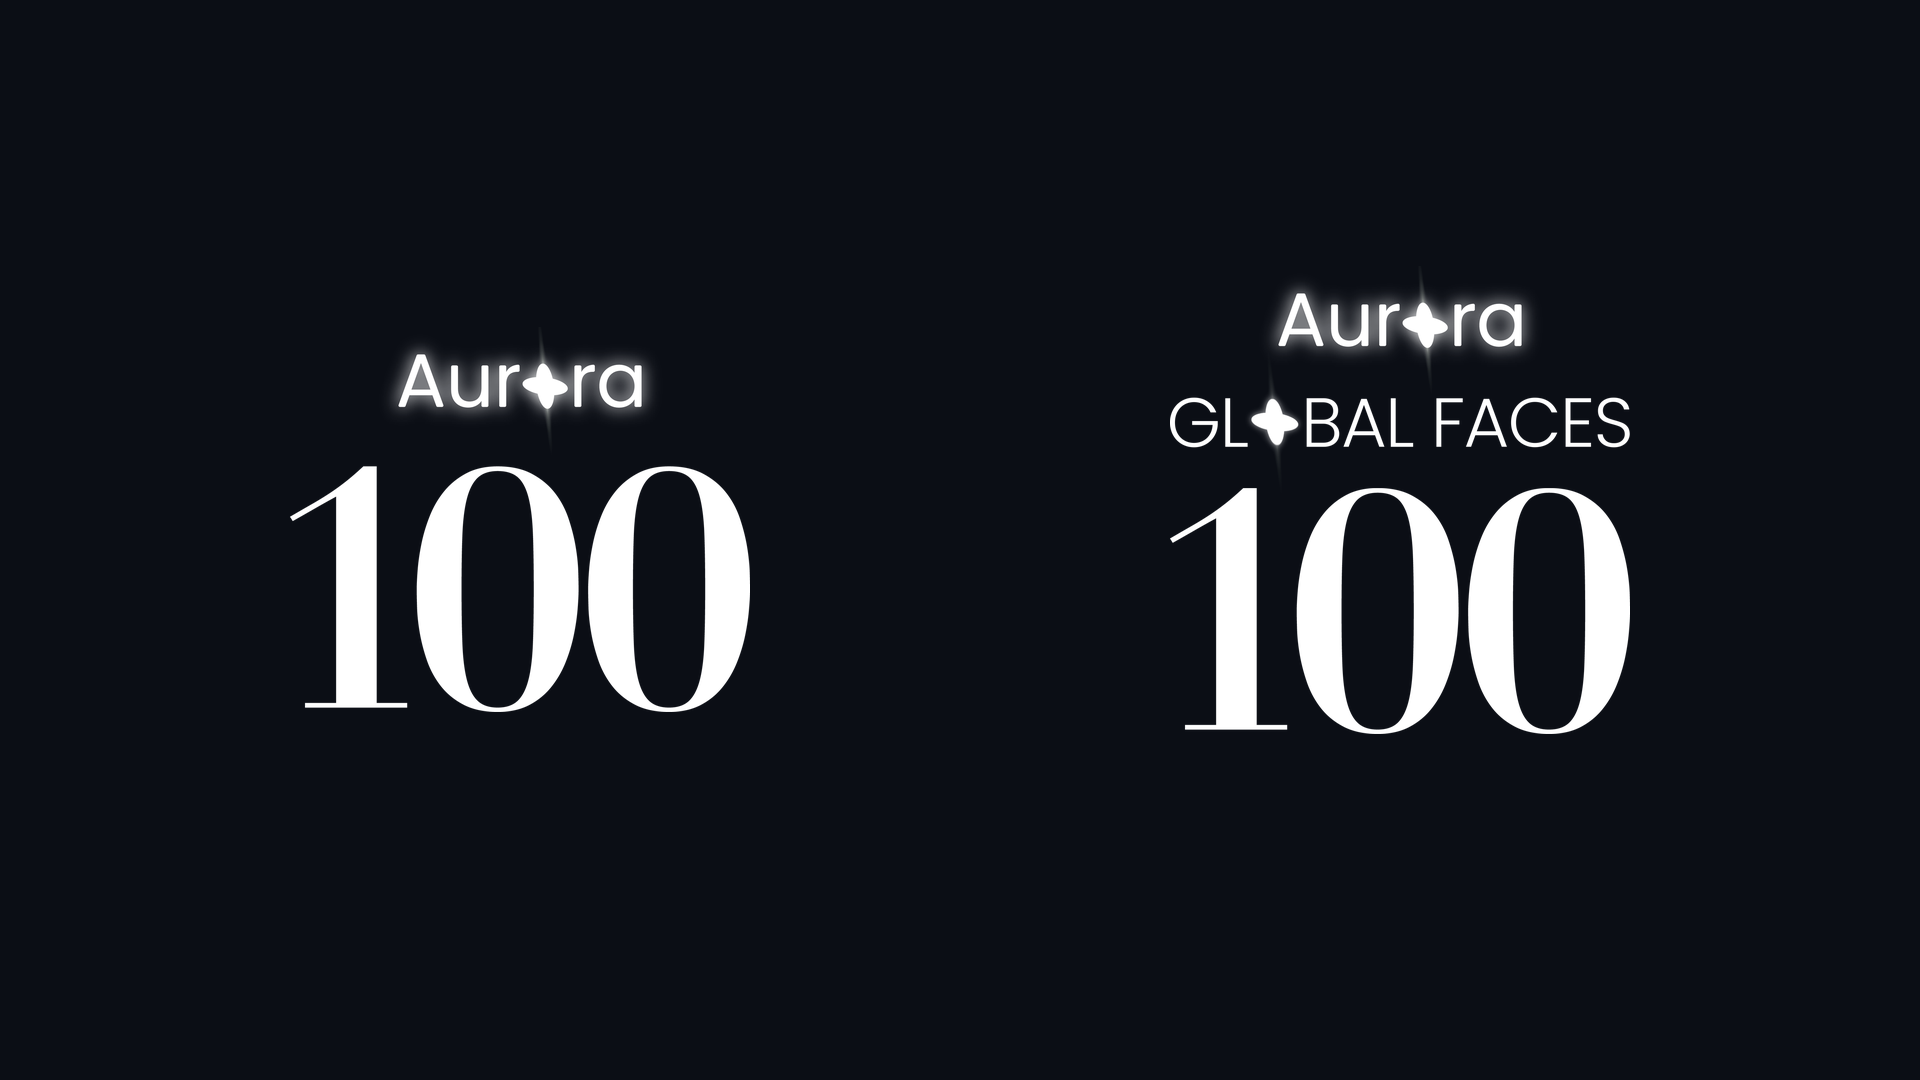
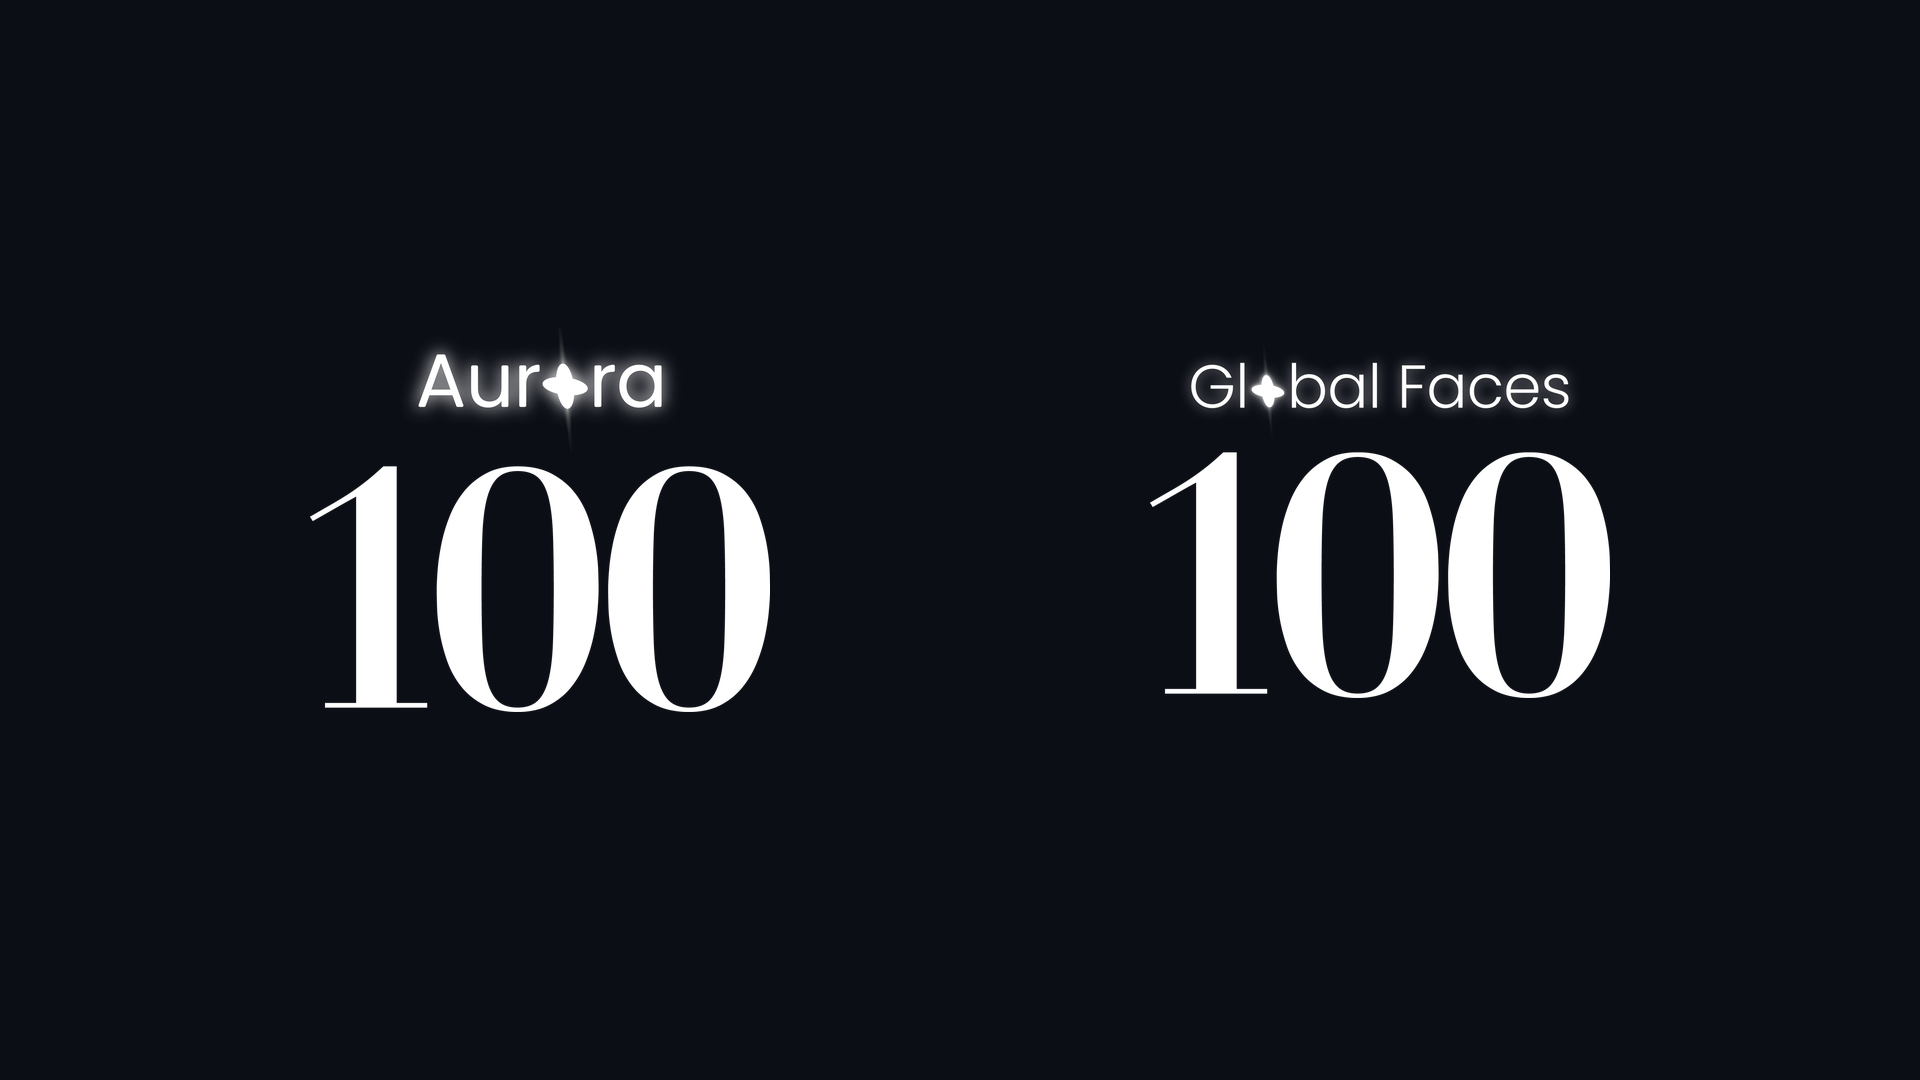
Aurora: Global Faces 100 as a standalone mark
- Aurora wordmark removed from the mark; "Gl✦bal Faces" in Poppins Light
  with capitals only on G and F, the Aurora star in place of the lowercase o
  (star height = x-height), centred over the 100 from the Aurora 100 master
- Soft glow on Stage, plain black on Read; boards and build script updated
- Guide rules and image sizes updated

Claude-Session: https://claude.ai/code/session_01VLMDQvyzXwonaRACCHVmjk

Changed region(s): [[0.5938, 0.2444, 0.875, 0.7028], [0.1562, 0.4278, 0.4062, 0.6722], [0.1875, 0.3056, 0.375, 0.3972]]

diff --git a/auracurate/guide.html b/auracurate/guide.html
@@ -70,14 +70,14 @@
         <p class="eyebrow">Official IP marks · Aurora 100 · Global Faces 100</p>
         <div class="ipm">
           <div class="ipm__tile"><img src="assets/brand/aurora100_white.png" alt="Aurora 100 — white" width="1200" height="1005"><small>Aurora 100 · Stage</small></div>
-          <div class="ipm__tile"><img src="assets/brand/global-faces-100_white.png" alt="Aurora Global Faces 100 — white" width="1200" height="1220"><small>Global Faces 100 · Stage</small></div>
+          <div class="ipm__tile"><img src="assets/brand/global-faces-100_white.png" alt="Global Faces 100 — white" width="1200" height="929"><small>Global Faces 100 · Stage</small></div>
           <div class="ipm__tile ipm__tile--light"><img src="assets/brand/aurora100_black.png" alt="Aurora 100 — black" width="878" height="683"><small>Aurora 100 · Read</small></div>
-          <div class="ipm__tile ipm__tile--light"><img src="assets/brand/global-faces-100_black.png" alt="Aurora Global Faces 100 — black" width="1200" height="1148"><small>Global Faces 100 · Read</small></div>
+          <div class="ipm__tile ipm__tile--light"><img src="assets/brand/global-faces-100_black.png" alt="Global Faces 100 — black" width="1200" height="877"><small>Global Faces 100 · Read</small></div>
         </div>
         <div class="paper"><div class="rules" style="margin-top:0">
-          <div><b>One family</b><span>Aurora wordmark on top, the project name, then the “100” from the Aurora 100 master. Same wordmark, same 100, same proportions.</span></div>
-          <div><b>The star is the O</b><span>In GL✦BAL the Aurora star replaces the O, exactly as it replaces the o in Aurora. Star height ≈ cap height; never an ordinary O.</span></div>
-          <div><b>Type</b><span>GL✦BAL FACES in Poppins Light, tracking −2%, set to the exact width of the 100. The same voice as the Global Summit mark.</span></div>
+          <div><b>Two standalone marks</b><span>Each IP is its own brand: the name above the “100”. Aurora 100 uses the Aurora wordmark as its name; Global Faces 100 has no Aurora wordmark on top. Both share the same 100 from the Aurora 100 master.</span></div>
+          <div><b>The star is the o</b><span>In Gl✦bal the Aurora star replaces the lowercase o, exactly as it does in Aurora. Star height = x-height; never an ordinary o.</span></div>
+          <div><b>Type</b><span>“Gl✦bal Faces” in Poppins Light, capitals only on G and F, tracking −1%, centred over the 100 at about four-fifths of its width. Soft glow on Stage, plain black on Read.</span></div>
           <div><b>Meaning stays separate</b><span>Aurora 100 = established influence (authority). Global Faces 100 = discovery and possibility. Neither mark implies a rank, vote or paid place.</span></div>
         </div>
         <p class="note" style="margin-top:16px">Use the master files only: <code>assets/brand/aurora100_*.png</code> and <code>global-faces-100_*.png</code>. White with glow on Stage, black on Read. Don’t redraw, recolour, stretch or add effects. Minimum width 120px on screen.</p></div>

diff --git a/auracurate/studio.html b/auracurate/studio.html
@@ -253,7 +253,7 @@
     <div class="container split">
       <div class="split__media reveal"><img src="assets/img/studio/harshaali.jpg" alt="Harshaali Malhotra — Global Faces 100" loading="lazy" style="aspect-ratio:4/5;object-fit:cover;object-position:50% 18%"></div>
       <div>
-        <img class="ip-mark" src="assets/brand/global-faces-100_white.png" alt="Aurora Global Faces 100" width="1200" height="1220" loading="lazy">
+        <img class="ip-mark" src="assets/brand/global-faces-100_white.png" alt="Global Faces 100" width="1200" height="929" loading="lazy">
         <p class="eyebrow">Global Faces 100 · Interview</p>
         <h2 class="h1" id="gf-title">Beyond the face <em>the world remembers.</em></h2>
         <p class="lede">Global Faces 100 has a different editorial purpose from Aurora 100: discovering and documenting emerging cultural possibility.</p>

diff --git a/auracurate/index.html b/auracurate/index.html
@@ -103,7 +103,7 @@
         <a class="project reveal" href="studio.html#global-faces">
           <img src="assets/img/studio/harshaali.jpg" alt="Harshaali Malhotra — Global Faces 100" loading="lazy" style="--focal:50% 18%">
           <div class="project__body">
-            <img class="project__mark" src="assets/brand/global-faces-100_white.png" alt="" aria-hidden="true" width="1200" height="1220" loading="lazy">
+            <img class="project__mark" src="assets/brand/global-faces-100_white.png" alt="" aria-hidden="true" width="1200" height="929" loading="lazy">
             <p class="project__label">Discovery · Growth · Possibility</p>
             <h3 class="visually-hidden">Global Faces 100</h3>
             <p>Meet Harshaali Malhotra through the full interview, her profile and the conversation around her story.</p>

diff --git a/auracurate/assets/brand/ip/make-global-faces-100.py b/auracurate/assets/brand/ip/make-global-faces-100.py
@@ -1,119 +1,82 @@
+"""Global Faces 100 — standalone mark (no Aurora wordmark), sister of Aurora 100.
+Name 'Gl✦bal Faces' in Poppins, the Aurora star in place of the lowercase o
+(star height = x-height, as in the Aurora wordmark), above the 100 from the Aurora 100 master."""
 from PIL import Image, ImageDraw, ImageFont, ImageFilter
-import numpy as np, cv2, re
+import numpy as np, cv2, re, sys
 B='/home/user/asialab-entry/auracurate/assets/brand/'
-FONT='fonts/poppins300.ttf'
-SS=4  # supersample
-sw,sh,d=open('gf/star-path.txt').read().split('\n',1)[0].split()+[open('gf/star-path.txt').read().split('\n',1)[1]]
-sw,sh=float(sw),float(sh)
-PTS=np.array([[float(a) for a in p.split(',')] for p in re.findall(r'[\d.]+,[\d.]+',d)])
-
+S='/tmp/claude-0/-home-user-asialab-entry/550141bf-fe84-5003-aab0-fb35c71ad1e9/scratchpad/'
+SS=4
+hdr,d=open(S+'gf/star-path.txt').read().split('\n',1)
+sw,sh=map(float,hdr.split()); PTS=np.array([[float(a) for a in p.split(',')] for p in re.findall(r'[\d.]+,[\d.]+',d)])
 def star_mask(w,h):
-    """official star (traced from the black logo) as an antialiased mask"""
-    W,H=int(w*SS),int(h*SS)
-    m=np.zeros((H,W),np.uint8)
-    pts=(PTS*[W/sw,H/sh]).astype(np.int32)
-    cv2.fillPoly(m,[pts],255,lineType=cv2.LINE_AA)
-    return Image.fromarray(m).resize((int(w),int(h)),Image.LANCZOS)
+    W,H=int(round(w*SS)),int(round(h*SS)); m=np.zeros((H,W),np.uint8)
+    cv2.fillPoly(m,[(PTS*[W/sw,H/sh]).astype(np.int32)],255,lineType=cv2.LINE_AA)
+    return Image.fromarray(m).resize((max(1,int(round(w))),max(1,int(round(h)))),Image.LANCZOS)
 
-def text_line(word_parts, size, track, color, star_mode):
-    """word_parts: list of strings; '*' = Aurora star in place of O. Returns RGBA image (tight to cap height)."""
-    f=ImageFont.truetype(FONT,size*SS)
-    asc,desc=f.getmetrics()
-    capH=f.getbbox('H')[3]-f.getbbox('H')[1]; capTop=f.getbbox('H')[1]
-    o_bb=f.getbbox('O'); o_adv=f.getlength('O'); o_ink=o_bb[2]-o_bb[0]
-    # layout
+def name_line(font, size, track=-0.01, text="Gl*bal Faces", star_scale=1.0):
+    f=ImageFont.truetype(font,size*SS)
+    xb=f.getbbox('x'); xh=xb[3]-xb[1]; xtop=xb[1]
+    ob=f.getbbox('o'); o_adv=f.getlength('o'); o_ink=ob[2]-ob[0]
     x=0; items=[]
-    s=''.join(word_parts)
-    for i,ch in enumerate(s):
-        if ch=='*':
-            items.append(('*',x)); x+=o_adv
-        else:
-            items.append((ch,x)); x+=f.getlength(ch)
-        if i<len(s)-1: x+=track*size*SS
-    Wt=int(x+10*SS); Ht=int(asc+desc+40*SS)
-    img=Image.new('L',(Wt,Ht),0); dr=ImageDraw.Draw(img)
-    stars=[]
+    for i,ch in enumerate(text):
+        items.append((ch,x)); x+= o_adv if ch=='*' else f.getlength(ch)
+        if i<len(text)-1: x+=track*size*SS
+    asc,desc=f.getmetrics(); Wt=int(x+20*SS); Ht=asc+desc+40*SS
+    img=Image.new('L',(Wt,Ht),0); dr=ImageDraw.Draw(img); stars=[]
     for ch,px in items:
-        if ch=='*': stars.append(px)
+        if ch=='*': stars.append(px+ob[0]+o_ink/2)
         elif ch!=' ': dr.text((px,20*SS),ch,font=f,fill=255)
-    # crop to ink of letters for cap band
-    top=20*SS+capTop; bottom=top+capH
-    return img, stars, (top,bottom,capH,o_adv,o_ink,o_bb), Wt
+    base_y=20*SS+xtop+xh  # baseline-ish (x bottom)
+    cap=f.getbbox('G'); top=20*SS+cap[1]
+    return img,stars,dict(xh=xh,xtop=20*SS+xtop,top=top,base=base_y,o_ink=o_ink)
 
-def compose(variant, out, line_text="GL*BAL FACES"):
-    dark = variant=='white'
-    base=Image.open(B+'aurora100_white.png').convert('RGBA')  # 1200x1005 official
-    W=base.size[0]
+def build(dark, font, out, width_ratio=0.82, gap_ratio=0.62):
+    base=Image.open(B+'aurora100_white.png').convert('RGBA'); W=base.size[0]
     a=np.array(base)[:,:,3]
-    rows=np.where(a.max(1)>40)[0]
-    # split wordmark block and 100 block using the empty band between them
-    ink=(a>200).any(1)
-    # 100 starts at the first strong row after y=300
     y100=next(y for y in range(300,a.shape[0]) if (a[y]>200).sum()>20)
-    word=base.crop((0,0,W,y100-10)); hundred=base.crop((0,y100,W,base.size[1]))
+    hundred=base.crop((0,y100,W,base.size[1]))
     if not dark:
-        # light version: same master, glow removed (alpha 200→255 remapped), recoloured black
-        w=np.array(word).astype(float); al=np.clip((w[:,:,3]-205)/50,0,1)*255
-        w[:,:,:3]=0; w[:,:,3]=al; word=Image.fromarray(w.astype(np.uint8))
         h=np.array(hundred); h[:,:,:3]=0; hundred=Image.fromarray(h)
-    # wordmark text baseline (strong ink bottom) in the word block
-    wa=np.array(word)[:,:,3]; strong=np.where((wa>200).sum(1)>8)[0]; word_bottom=strong.max()
-    # type line: fit width to the 100
-    ha=np.array(hundred)[:,:,3]; hx=np.where(ha.max(0)>128)[0]; x0,x1=hx.min(),hx.max(); target=x1-x0
+    target=W*width_ratio
     size=100
-    for _ in range(3):
-        img,stars,(top,bottom,capH,o_adv,o_ink,o_bb),Wt=text_line(line_text,size,-0.02,None,dark)
-        arr=np.array(img); cols=np.where(arr.max(0)>0)[0]
-        inkw=(cols.max()-cols.min())/SS
-        # stars add width: include the star advance boxes
-        left=min(cols.min(),min(stars)+o_bb[0]) ; right=max(cols.max(),max(stars)+o_bb[2])
-        inkw=(right-left)/SS
-        size=size*target/inkw
-    # final render
-    img,stars,(top,bottom,capH,o_adv,o_ink,o_bb),Wt=text_line(line_text,size,-0.02,None,dark)
-    arr=np.array(img); cols=np.where(arr.max(0)>0)[0]
-    left=min(cols.min(),min(stars)+o_bb[0])
-    line=img.crop((left, top-int(capH*0.25), left+int(target*SS)+SS, bottom+int(capH*0.25)))
-    line=line.resize((line.size[0]//SS, line.size[1]//SS),Image.LANCZOS)
-    capHpx=capH/SS; pad=int(capH*0.25)//SS
-    color=(255,255,255) if dark else (0,0,0)
-    L=Image.new('RGBA',line.size,color+(0,)); L.putalpha(line)
-    # stars
-    star_h=capHpx*0.94; star_w=star_h*sw/sh
-    for px in stars:
-        cx=(px-left+o_bb[0]+o_ink/2)/SS; cy=pad+capHpx/2
+    for _ in range(4):
+        img,stars,m=name_line(font,size)
+        cols=np.where(np.array(img).max(0)>0)[0]; inkw=(cols.max()-cols.min())/SS
+        size*=target/inkw
+    img,stars,m=name_line(font,size)
+    arr=np.array(img); cols=np.where(arr.max(0)>0)[0]; rows=np.where(arr.max(1)>0)[0]
+    l,r,t,b=cols.min(),cols.max(),rows.min(),rows.max()
+    pad=int(m['xh']*1.2)
+    crop=img.crop((l-pad,t-pad,r+pad,b+pad))
+    small=crop.resize((crop.size[0]//SS,crop.size[1]//SS),Image.LANCZOS)
+    col=(255,255,255) if dark else (0,0,0)
+    L=Image.new('RGBA',small.size,col+(0,)); L.putalpha(small)
+    xh=m['xh']/SS; star_h=xh*0.96; star_w=star_h*sw/sh
+    for sx in stars:
+        cx=(sx-(l-pad))/SS; cy=(m['xtop']-(t-pad))/SS+xh/2
         if dark:
-            st=Image.open(B+'aurora-star.png').convert('RGBA')
-            sa=np.array(st)[:,:,3]; # body = strong alpha
-            ys,xs=np.where(sa>235); bw=xs.max()-xs.min()
-            sc=star_w/bw
+            st=Image.open(B+'aurora-star.png').convert('RGBA'); sa=np.array(st)[:,:,3]
+            ys,xs=np.where(sa>235); sc=star_w/(xs.max()-xs.min())
             st=st.resize((int(st.size[0]*sc),int(st.size[1]*sc)),Image.LANCZOS)
-            sa2=np.array(st).astype(float); sa2[:,:,3]*=0.55; st=Image.fromarray(sa2.astype(np.uint8))
+            s2=np.array(st).astype(float); s2[:,:,3]*=0.7; st=Image.fromarray(s2.astype(np.uint8))
             bcx=(xs.min()+xs.max())/2*sc; bcy=(ys.min()+ys.max())/2*sc
-            L2=Image.new('RGBA',(L.size[0],L.size[1]+st.size[1]*2),(0,0,0,0)); off=st.size[1]
-            L2.alpha_composite(L,(0,off))
-            L2.alpha_composite(st,(int(cx-bcx),int(cy+off-bcy)))
-            # crisp body on top
-            m=star_mask(star_w,star_h); body=Image.new('RGBA',m.size,(255,255,255,0)); body.putalpha(m)
-            L2.alpha_composite(body,(int(cx-star_w/2),int(cy+off-star_h/2)))
-            L=L2; pad+=off
-        else:
-            m=star_mask(star_w,star_h); body=Image.new('RGBA',m.size,(0,0,0,0)); body.putalpha(m)
-            L.alpha_composite(body,(int(cx-star_w/2),int(cy-star_h/2)))
-    # stack: word block, gap, line, gap, hundred
-    gap1=int(capHpx*1.05); gap2=int(capHpx*0.85)
-    line_top_y = word_bottom + gap1          # cap top of line
-    line_paste_y = line_top_y - pad
-    hundred_y = line_top_y + int(capHpx) + gap2
-    H=hundred_y+hundred.size[1]
-    canvas=Image.new('RGBA',(W,max(H,word.size[0]//2)),(0,0,0,0))
-    canvas.alpha_composite(word,(0,0))
-    canvas.alpha_composite(L,(int(x0),int(line_paste_y)) if L.size[0]+x0<=W else (int(x0),int(line_paste_y)))
-    canvas.alpha_composite(hundred,(0,hundred_y))
-    bb=canvas.getbbox(); canvas=canvas.crop(bb)
-    canvas.save(out); print(out,canvas.size,'font',round(size),'capH',round(capHpx))
-    return canvas
-
+            L.alpha_composite(st,(int(cx-bcx),int(cy-bcy)))
+        mk=star_mask(star_w,star_h); body=Image.new('RGBA',mk.size,col+(0,)); body.putalpha(mk)
+        L.alpha_composite(body,(int(round(cx-star_w/2)),int(round(cy-star_h/2))))
+    if dark:  # soft glow like the Aurora 100 wordmark
+        g=L.copy().filter(ImageFilter.GaussianBlur(xh*0.18)); ga=np.array(g).astype(float); ga[:,:,3]*=0.55
+        G=Image.fromarray(ga.astype(np.uint8)); G.alpha_composite(L); L=G
+    # stack
+    la=np.array(L)[:,:,3]; lr=np.where((la>200).any(1))[0]; ink_bottom=lr.max()
+    gap=int(xh*gap_ratio*2.2)
+    hh=np.array(hundred)[:,:,3]; ht=np.where((hh>200).any(1))[0].min()
+    H=ink_bottom+gap+hundred.size[1]
+    c=Image.new('RGBA',(W+L.size[0],H+L.size[1]),(0,0,0,0))
+    ox=(L.size[0])//2  # canvas wider to hold glow, crop later
+    c.alpha_composite(L,(int(ox+(W-L.size[0])/2),0))
+    c.alpha_composite(hundred,(ox,ink_bottom+gap-ht))
+    c=c.crop(c.getbbox()); c.save(out); print(out,c.size,'size',round(size),'xh',round(xh))
 if __name__=='__main__':
-    compose('white','gf/global-faces-100_white.png')
-    compose('black','gf/global-faces-100_black.png')
+    font=sys.argv[1] if len(sys.argv)>1 else S+'fonts/pxiEyp8kv8JHgFVrFJA.ttf'
+    tag=sys.argv[2] if len(sys.argv)>2 else 'x'
+    build(True,font,S+f'gf/gf2_white_{tag}.png'); build(False,font,S+f'gf/gf2_black_{tag}.png')
